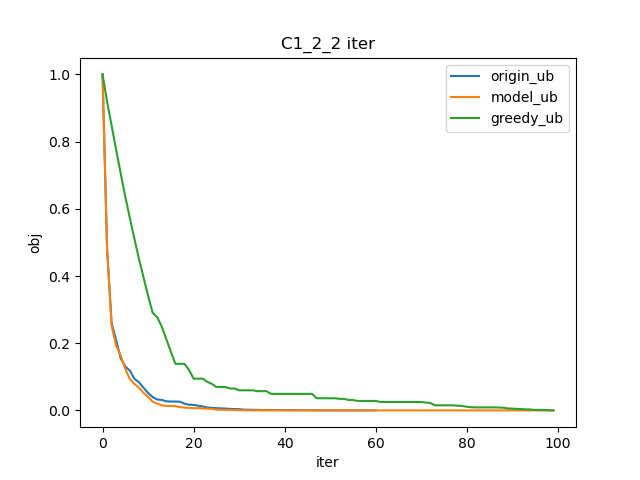
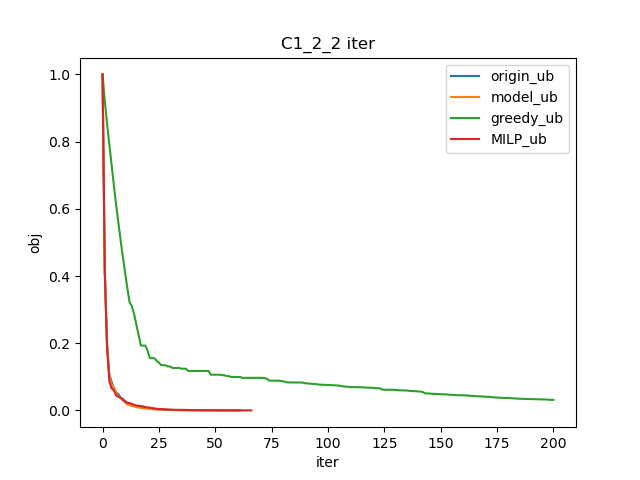
更新列选择过程，增加reoptimize额外添加非负列

diff --git a/compare_experiment_SL.py b/compare_experiment_SL.py
@@ -9,6 +9,7 @@ from pretrain.dataProcess import MILPSolver
 from run import Args
 import Net
 import torch
+import pickle
 
 args = Args()
 args.instancce = "C1_2_2"
@@ -18,26 +19,28 @@ net = Net.GAT(node_feature_dim=6, column_feature_dim=3, embed_dim=256, device=ar
 actor = Net.Actor(net)
 actor.load_state_dict(torch.load("pretrain\\model_saved\\actor_standard_complete.pth", map_location=torch.device('cpu')))
 # original column generation
-def column_generation(model = None):
+def column_generation(model = "origin"):
     start_time = time.time()
     env = CGEnv(args)
     state, info = env.reset(args.instance)
     milp_solver = MILPSolver()
-    iter_cnt = 0
-    reward_list = []
-    ub_lb_list = []
-    RLMP_time_list = []
-    time_list = []
-    present_columns = []
-    new_columns = []
-    
     vehicleNum = 50 if env.CGAlg.graph.nodeNum < 400 else 100 # set vehicleNum manually
+
+    iter_cnt = 0
+    reward_list = [0]
+    ub = env.CGAlg.RLMP.ObjVal
+    lb = max(env.CGAlg.RLMP.ObjVal + min(vehicleNum * env.CGAlg.SP_obj, 0), 0)
+    ub_lb_list = [[ub,lb]]
+    RLMP_time_list = [env.CGAlg.RLMP_timeRecord]
+    time_list = [time.time() - start_time]
+    extra_flag = False if model in ["greedy", "origin"] else True
+    
     while True:
         # test: randomly delete a column
         col_num = len(state["columns_state"])
-        action = np.ones(col_num)
         if model == "greedy":
-            action[1:] = 0
+            action = np.zeros(col_num)
+            action[0] = 1
         elif model == "MILP":
             present_columns = list(env.CGAlg.column_pool.values())
             new_columns = env.CGAlg.labeling_routes.copy()
@@ -53,21 +56,26 @@ def column_generation(model = None):
                     columns[ci]["distance"] = dist
                     columns[ci]["onehot_path"] = onehot_path
             action = milp_solver.solve(present_columns, new_columns, env.CGAlg.graph.nodeNum)
+        elif model == "origin":
+            action = np.ones(col_num)
         elif model is not None:
+            action = np.zeros(col_num)
             probs = actor(state, info)
             for i in range(len(action)):
-                if probs[i][0] > 0.5:
-                    action[i] = 0
+                if probs[i][1] > 0.5:
+                    action[i] = 1
+        else:
+            raise ValueError("model is None")
         if sum(action) == 0: # at least one column
             action[np.random.randint(0, col_num)] = 1
-        state, reward, done, info = env.step(action)
+        state, reward, done, info = env.step(action, extra_flag)
         ub = env.CGAlg.RLMP.ObjVal
         lb = max(env.CGAlg.RLMP.ObjVal + min(vehicleNum * env.CGAlg.SP_obj, 0), 0)
         reward_list.append(reward)
         ub_lb_list.append([ub, lb])
         RLMP_time_list.append(env.CGAlg.RLMP_timeRecord)
         time_list.append(time.time() - start_time)
-        print("Iter {}: delete column {}, reward = {}".format(iter_cnt, len(action)-sum(action), reward))
+        print("Iter {}: delete column {}, reward = {}, extra_route_num = {}".format(iter_cnt, len(action)-sum(action), reward, info["extra_route_num"]))
         if done:
             break
         iter_cnt += 1
@@ -80,15 +88,15 @@ def column_generation(model = None):
         
 
 # run column generation
-MILP_ub_lb_list, MILP_RLMP_time_list, MILP_time_list = column_generation("MILP")
-origin_ub_lb_list, origin_RLMP_time_list, origin_time_list = column_generation()
-model_ub_lb_list, model_RLMP_time_list, model_time_list = column_generation(actor)
 greedy_ub_lb_list, greedy_RLMP_time_list, greedy_time_list = column_generation("greedy")
+origin_ub_lb_list, origin_RLMP_time_list, origin_time_list = column_generation("origin")
+MILP_ub_lb_list, MILP_RLMP_time_list, MILP_time_list = column_generation("MILP")
+model_ub_lb_list, model_RLMP_time_list, model_time_list = column_generation(actor)
 # preprocess
 origin_ub_list = np.array(origin_ub_lb_list)[:,0]
-origin_ub_list = (origin_ub_list - min(origin_ub_list)) / (max(origin_ub_list) - min(origin_ub_list))
 max_origin_ub = max(origin_ub_list)
 min_origin_ub = min(origin_ub_list)
+origin_ub_list = (origin_ub_list - min_origin_ub) / (max_origin_ub - min_origin_ub)
 model_ub_list = np.array(model_ub_lb_list)[:,0]
 model_ub_list = (model_ub_list - min_origin_ub) / (max_origin_ub - min_origin_ub)
 greedy_ub_list = np.array(greedy_ub_lb_list)[:,0]
@@ -99,6 +107,30 @@ origin_iter_list = np.arange(len(origin_ub_list))
 model_iter_list = np.arange(len(model_ub_list))
 greedy_iter_list = np.arange(len(greedy_ub_list))
 MILP_iter_list = np.arange(len(MILP_ub_list))
+# save data
+data = {
+    "origin_ub_list": list(origin_ub_list),
+    "model_ub_list": list(model_ub_list),
+    "greedy_ub_list": list(greedy_ub_list),
+    "MILP_ub_list": list(MILP_ub_list),
+
+    "origin_RLMP_time_list": list(origin_RLMP_time_list),
+    "model_RLMP_time_list": list(model_RLMP_time_list),
+    "greedy_RLMP_time_list": list(greedy_RLMP_time_list),
+    "MILP_RLMP_time_list": list(MILP_RLMP_time_list),
+
+    "origin_time_list": list(origin_time_list),
+    "model_time_list": list(model_time_list),
+    "greedy_time_list": list(greedy_time_list),
+    "MILP_time_list": list(MILP_time_list),
+
+    "origin_iter_list": list(origin_iter_list),
+    "model_iter_list": list(model_iter_list),
+    "greedy_iter_list": list(greedy_iter_list),
+    "MILP_iter_list": list(MILP_iter_list),
+}
+with open("outputs/data/{}.pkl".format(args.instance), "wb") as f:
+    pickle.dump(data, f)
 # plot graphs
 ## 1. RMP time
 plt.figure()

diff --git a/Env.py b/Env.py
@@ -57,18 +57,31 @@ class CGEnv(gym.Env):
             for fi in range(len(constraint_state)):
                 constraint_state[fi] = (constraint_state[fi] - self.max_min_info["constraint_state_min"][fi]) / (self.max_min_info["constraint_state_max"][fi] - self.max_min_info["constraint_state_min"][fi])
 
-    def step(self, action: np.ndarray):
+    def step(self, action: np.ndarray, extra_flag: bool = True):
+        """
+        Args: 
+            action: np.ndarray, shape = (route_num, )
+            extra_flag: bool, whether to select columns with negative reduced cost 
+        """
         action = np.clip(action, 0, 1)
-        """ select columns and sove RLMP """
+        info = {"extra_route_num": 0}
+        """ select columns predicted by RLMP and sove RLMP """
         obj_before = self.CGAlg.RLMP_obj
-        self.CGAlg.select_columns(action)
-        self.CGAlg.get_columns_and_add_into_RLMP()
-        CG_flag = self.CGAlg.column_generation_before_selection()
+        unselected_routes = [route for ri, route in enumerate(self.CGAlg.labeling_routes) if action[ri] == 0] # 预存所有未选择路
+        self.CGAlg.select_columns(action) # 根据action选择列
+        self.CGAlg.get_columns_and_add_into_RLMP() # 将列加入RLMP
+        if extra_flag:
+            self.CGAlg.solve_RLMP_and_get_duals() # 更新对偶值
+            """ select columns with negative rc and sove RLMP """
+            reduced_costs = self.CGAlg.evaluate_routes(unselected_routes) # 更新未选择路的对偶值
+            self.CGAlg.labeling_routes = [route for ri, route in enumerate(unselected_routes) if reduced_costs[ri] < 0] # 根据对偶值选择路
+            info["extra_route_num"] = len(self.CGAlg.labeling_routes) # 记录额外选择的路的数量
+            self.CGAlg.get_columns_and_add_into_RLMP() # 将列加入RLMP
+        CG_flag = self.CGAlg.column_generation_before_selection() # 进行列生成
         obj_after = self.CGAlg.RLMP_obj
         """ get state, reward, done, info """
         state = self.CGAlg.get_column_selection_info()
         self.standardize_state(state) # state standardization
-        info = {}
         # reward = self.alpha * (obj_before - obj_after) / self.obj_init - self.step_cost
         reward = self.alpha * (obj_before - obj_after) / self.obj_init - self.step_cost * (sum(action) / len(action) + 1)
         done = 0
@@ -95,7 +108,19 @@ class CGWithSelection(ColumnGeneration.ColumnGenerationWithLabeling):
     def __init__(self, graph):
         super(CGWithSelection, self).__init__(graph)
         self.OutputFlag = False
-
+    
+    def evaluate_routes(self, routes):
+        # 计算路经过的点的reduced cost
+        reduced_costs = []
+        for route in routes:
+            dual_sum = 0
+            dist_sum = 0
+            for i in range(1, len(route)):
+                dual_sum += self.duals_of_RLMP[f"R{route[i]}"]
+                dist_sum += self.graph.disMatrix[route[i-1]][route[i]]
+            reduced_costs.append(dist_sum - dual_sum)
+        return reduced_costs
+         
     def column_generation_before_selection(self):
         # solve RLMP and get duals
         is_feasible = self.solve_RLMP_and_get_duals()

diff --git a/pretrain/dataProcess.py b/pretrain/dataProcess.py
@@ -21,7 +21,7 @@ class MILPSolver:
 
     ps: only consider new columns selection
     """
-    def __init__(self, epsilon1=0.001, epsilon2=0.1):
+    def __init__(self, epsilon1=0.00001, epsilon2=0.00001):
         # weight of minimize columnNum
         self.epsilon1 = epsilon1 # coef for present columns
         self.epsilon2 = epsilon2 # coef for new columns
